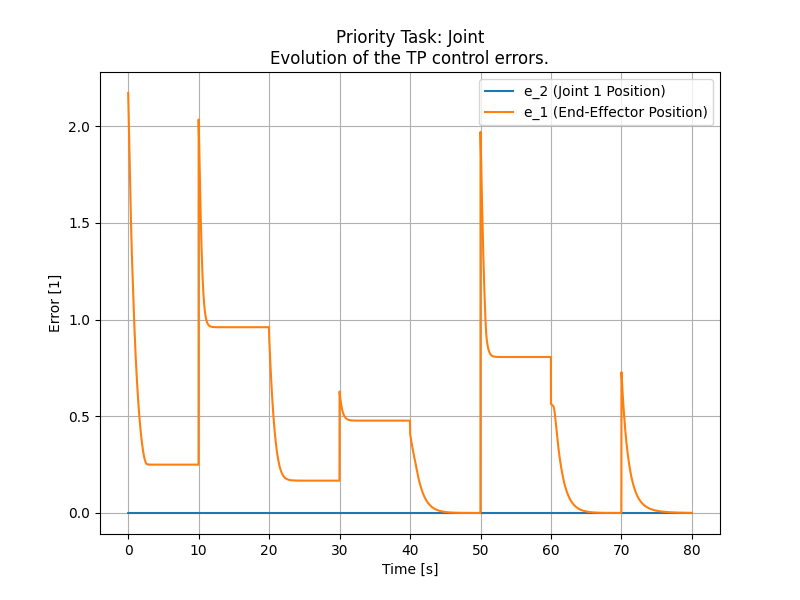
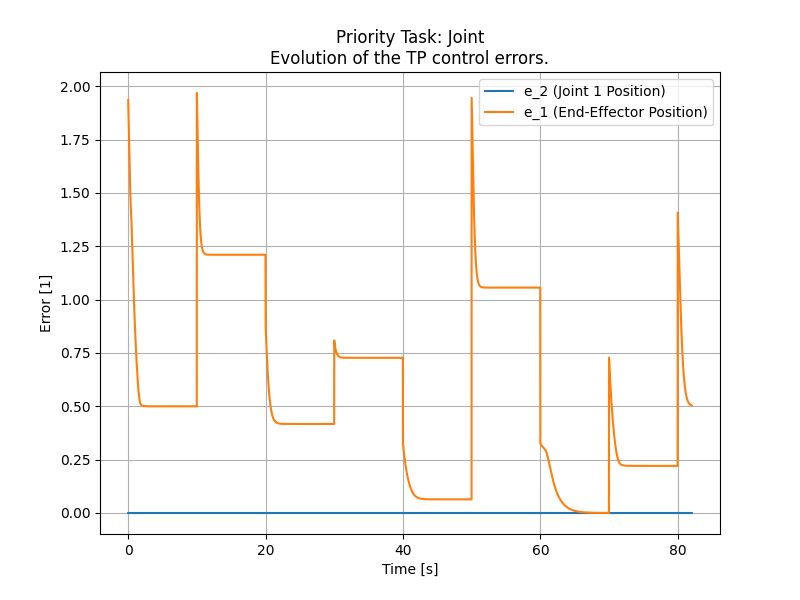
add comments in e2.py

diff --git a/lab2/e2.py b/lab2/e2.py
@@ -7,7 +7,7 @@ import matplotlib.animation as anim
 d = np.zeros(3)                            # displacement along Z-axis
 q = np.array([0, np.pi/4, np.pi/4]).reshape(3, 1)               # rotation around Z-axis (theta) q1 = 0 [rad], q2 = pi/4 [rad], q3 = pi/6 [rad]
 alpha =  np.zeros(3)                       # displacement along X-axis
-a =   np.array([0.75, 0.5, 0.5])           # rotation around X-axis 
+a =  np.array([0.75, 0.5, 0.25])           # rotation around X-axis 
 revolute = np.array([True,True,True])      # flags specifying the type of joints
 
 K1 = np.diag([1, 1])                   # Gain for the first task
@@ -66,12 +66,12 @@ time_vector = []
 # Simulation initialization
 def init(): 
     global current_goal_idx,sigma1_d,goals
-    sigma1_d = goals[current_goal_idx]
+    sigma1_d = goals[current_goal_idx%len(goals)] # select goal from predefined goals
     line.set_data([], [])
     path.set_data([], [])
-    point.set_data(sigma1_d[0], sigma1_d[1])
-    current_goal_idx=current_goal_idx+1
-    print(current_goal_idx,sigma1_d)
+    point.set_data(sigma1_d[0], sigma1_d[1]) # set goal
+    current_goal_idx=current_goal_idx+1 #increment index
+    # print(current_goal_idx,sigma1_d)
     return line, path, point
 
 # Simulation loop
@@ -139,7 +139,7 @@ def simulate(t):
     path.set_data(PPx, PPy)
     
     # point.set_data(sigma1_d[0], sigma1_d[1]) #goal
-        #for error normalization
+    #for error normalization
     err_joint_pos1_norm = np.linalg.norm(err2)  # Joint 1 position error normalized
     err_ee_pose_norm = np.linalg.norm(err1)  # End-effector position error normalized
 
